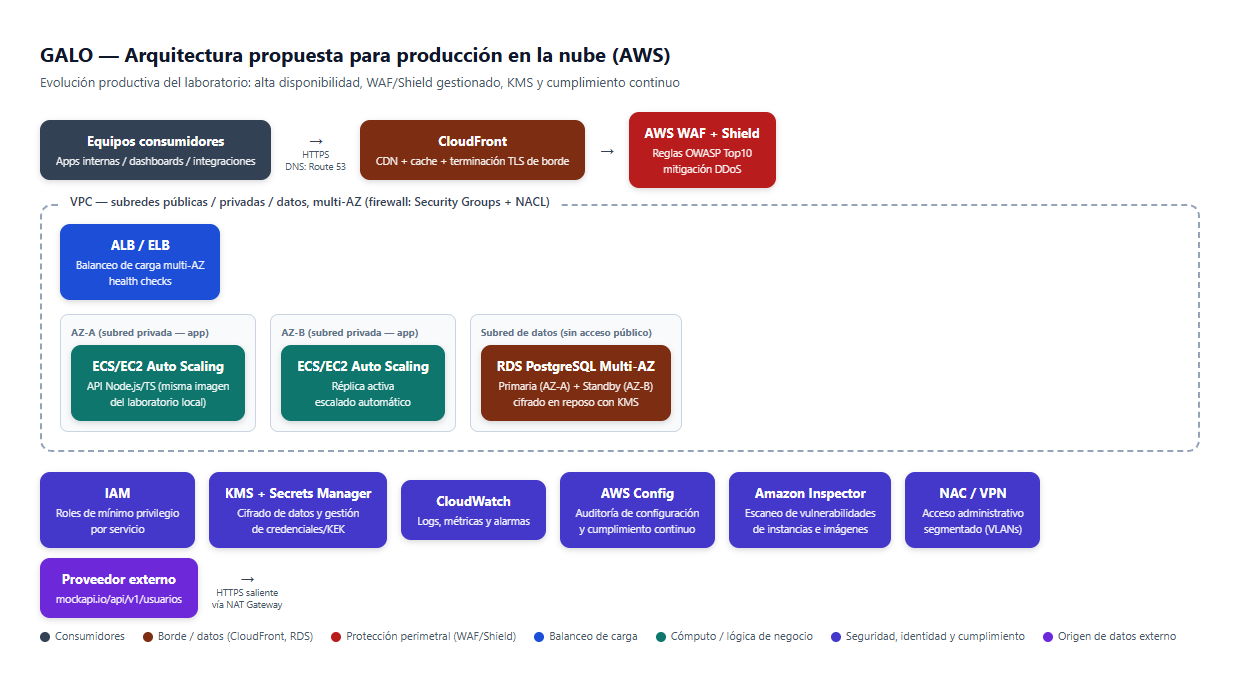
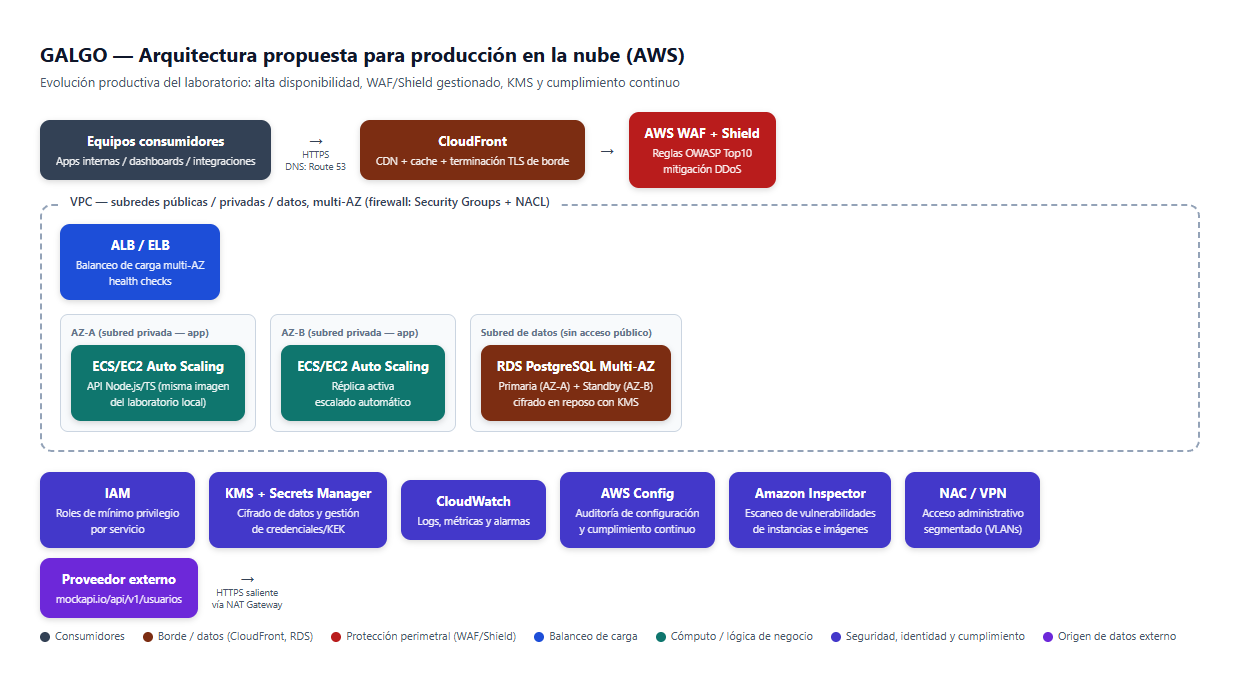
Corregir nombre del proyecto: GALO -> GALGO

Changed region(s): [[0.0613, 0.0615, 0.5516, 0.0922]]

diff --git a/public/index.html b/public/index.html
@@ -3,12 +3,12 @@
 <head>
   <meta charset="UTF-8" />
   <meta name="viewport" content="width=device-width, initial-scale=1.0" />
-  <title>GALO · Portal de Consumo de Datos de Clientes</title>
+  <title>GALGO · Portal de Consumo de Datos de Clientes</title>
   <link rel="stylesheet" href="/styles.css" />
 </head>
 <body>
   <header class="topbar">
-    <h1>GALO · Portal seguro de datos de clientes</h1>
+    <h1>GALGO · Portal seguro de datos de clientes</h1>
     <div id="session-info" class="session-info"></div>
   </header>
 

diff --git a/scripts/build-report.js b/scripts/build-report.js
@@ -679,7 +679,7 @@ const doc = new Document({
 });
 
 Packer.toBuffer(doc).then((buffer) => {
-  const outPath = path.join(__dirname, "..", "Informe_Solucion_GALO.docx");
+  const outPath = path.join(__dirname, "..", "Informe_Solucion_GALGO.docx");
   fs.writeFileSync(outPath, buffer);
   console.log("Informe generado en", outPath);
 });

diff --git a/scripts/diagram-cloud.html b/scripts/diagram-cloud.html
@@ -38,7 +38,7 @@
 </head>
 <body>
 <div class="canvas">
-  <h1>GALO — Arquitectura propuesta para producción en la nube (AWS)</h1>
+  <h1>GALGO — Arquitectura propuesta para producción en la nube (AWS)</h1>
   <div class="subtitle">Evolución productiva del laboratorio: alta disponibilidad, WAF/Shield gestionado, KMS y cumplimiento continuo</div>
 
   <div class="row" style="margin-bottom:16px;">

diff --git a/scripts/diagram.html b/scripts/diagram.html
@@ -35,7 +35,7 @@
 </head>
 <body>
 <div class="canvas">
-  <h1>GALO — Arquitectura del laboratorio (Docker Compose local)</h1>
+  <h1>GALGO — Arquitectura del laboratorio (Docker Compose local)</h1>
   <div class="subtitle">Ingesta, cifrado, almacenamiento y consumo seguro de datos de clientes del proveedor externo</div>
 
   <div class="row">

diff --git a/README.md b/README.md
@@ -1,4 +1,4 @@
-# GALO · Laboratorio de manejo seguro de información de clientes
+# GALGO · Laboratorio de manejo seguro de información de clientes
 
 Solución funcional al *Challenge de Seguridad Informática*: ingesta de datos de clientes desde un
 proveedor externo, almacenamiento cifrado en una base de datos relacional y exposición controlada